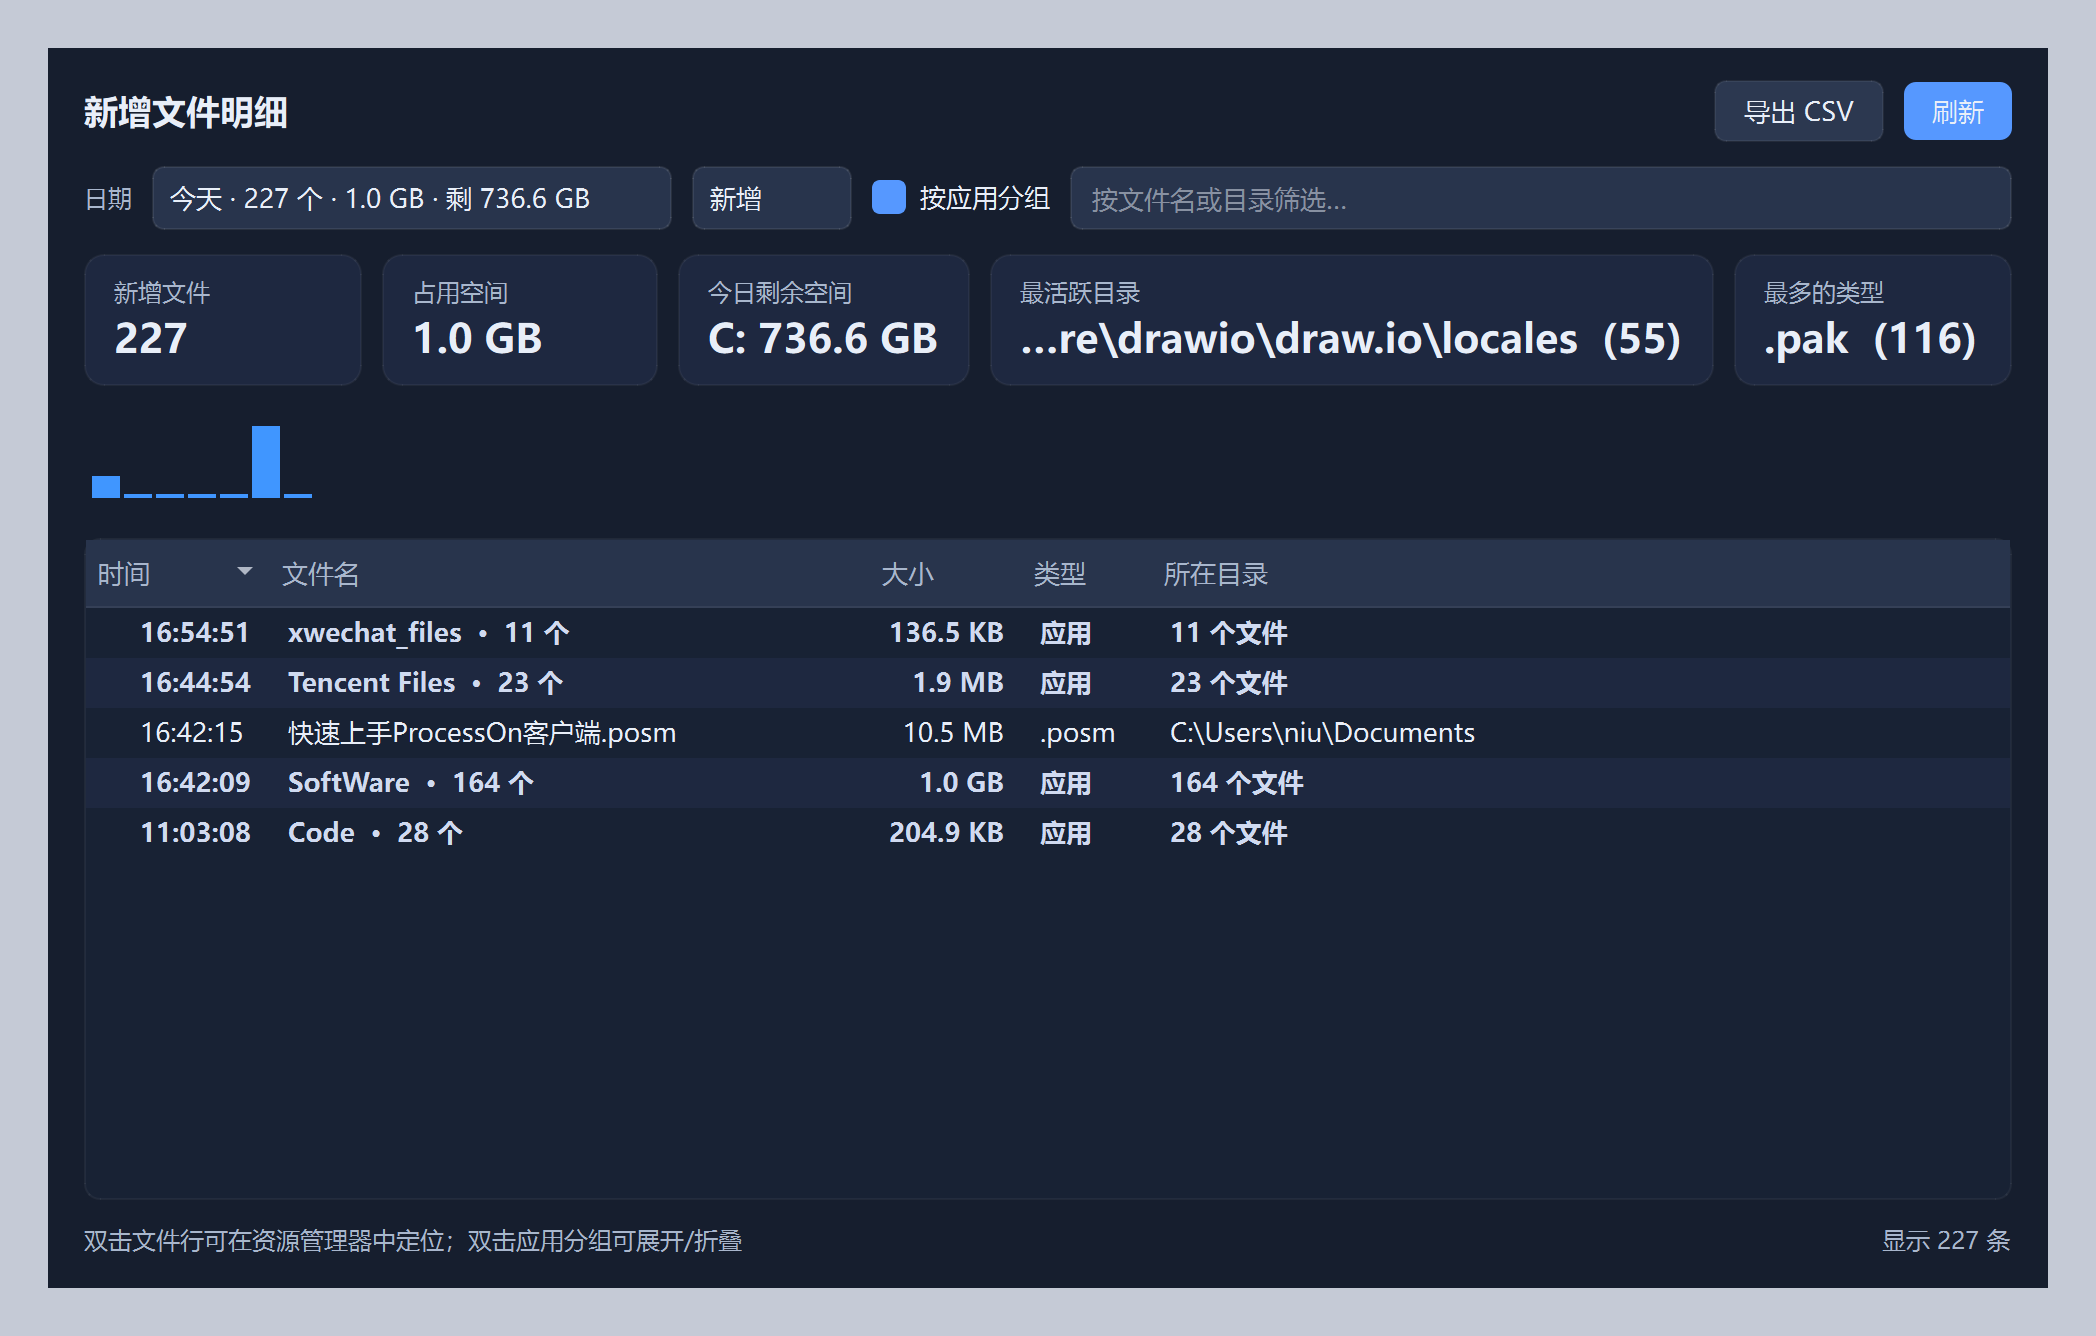
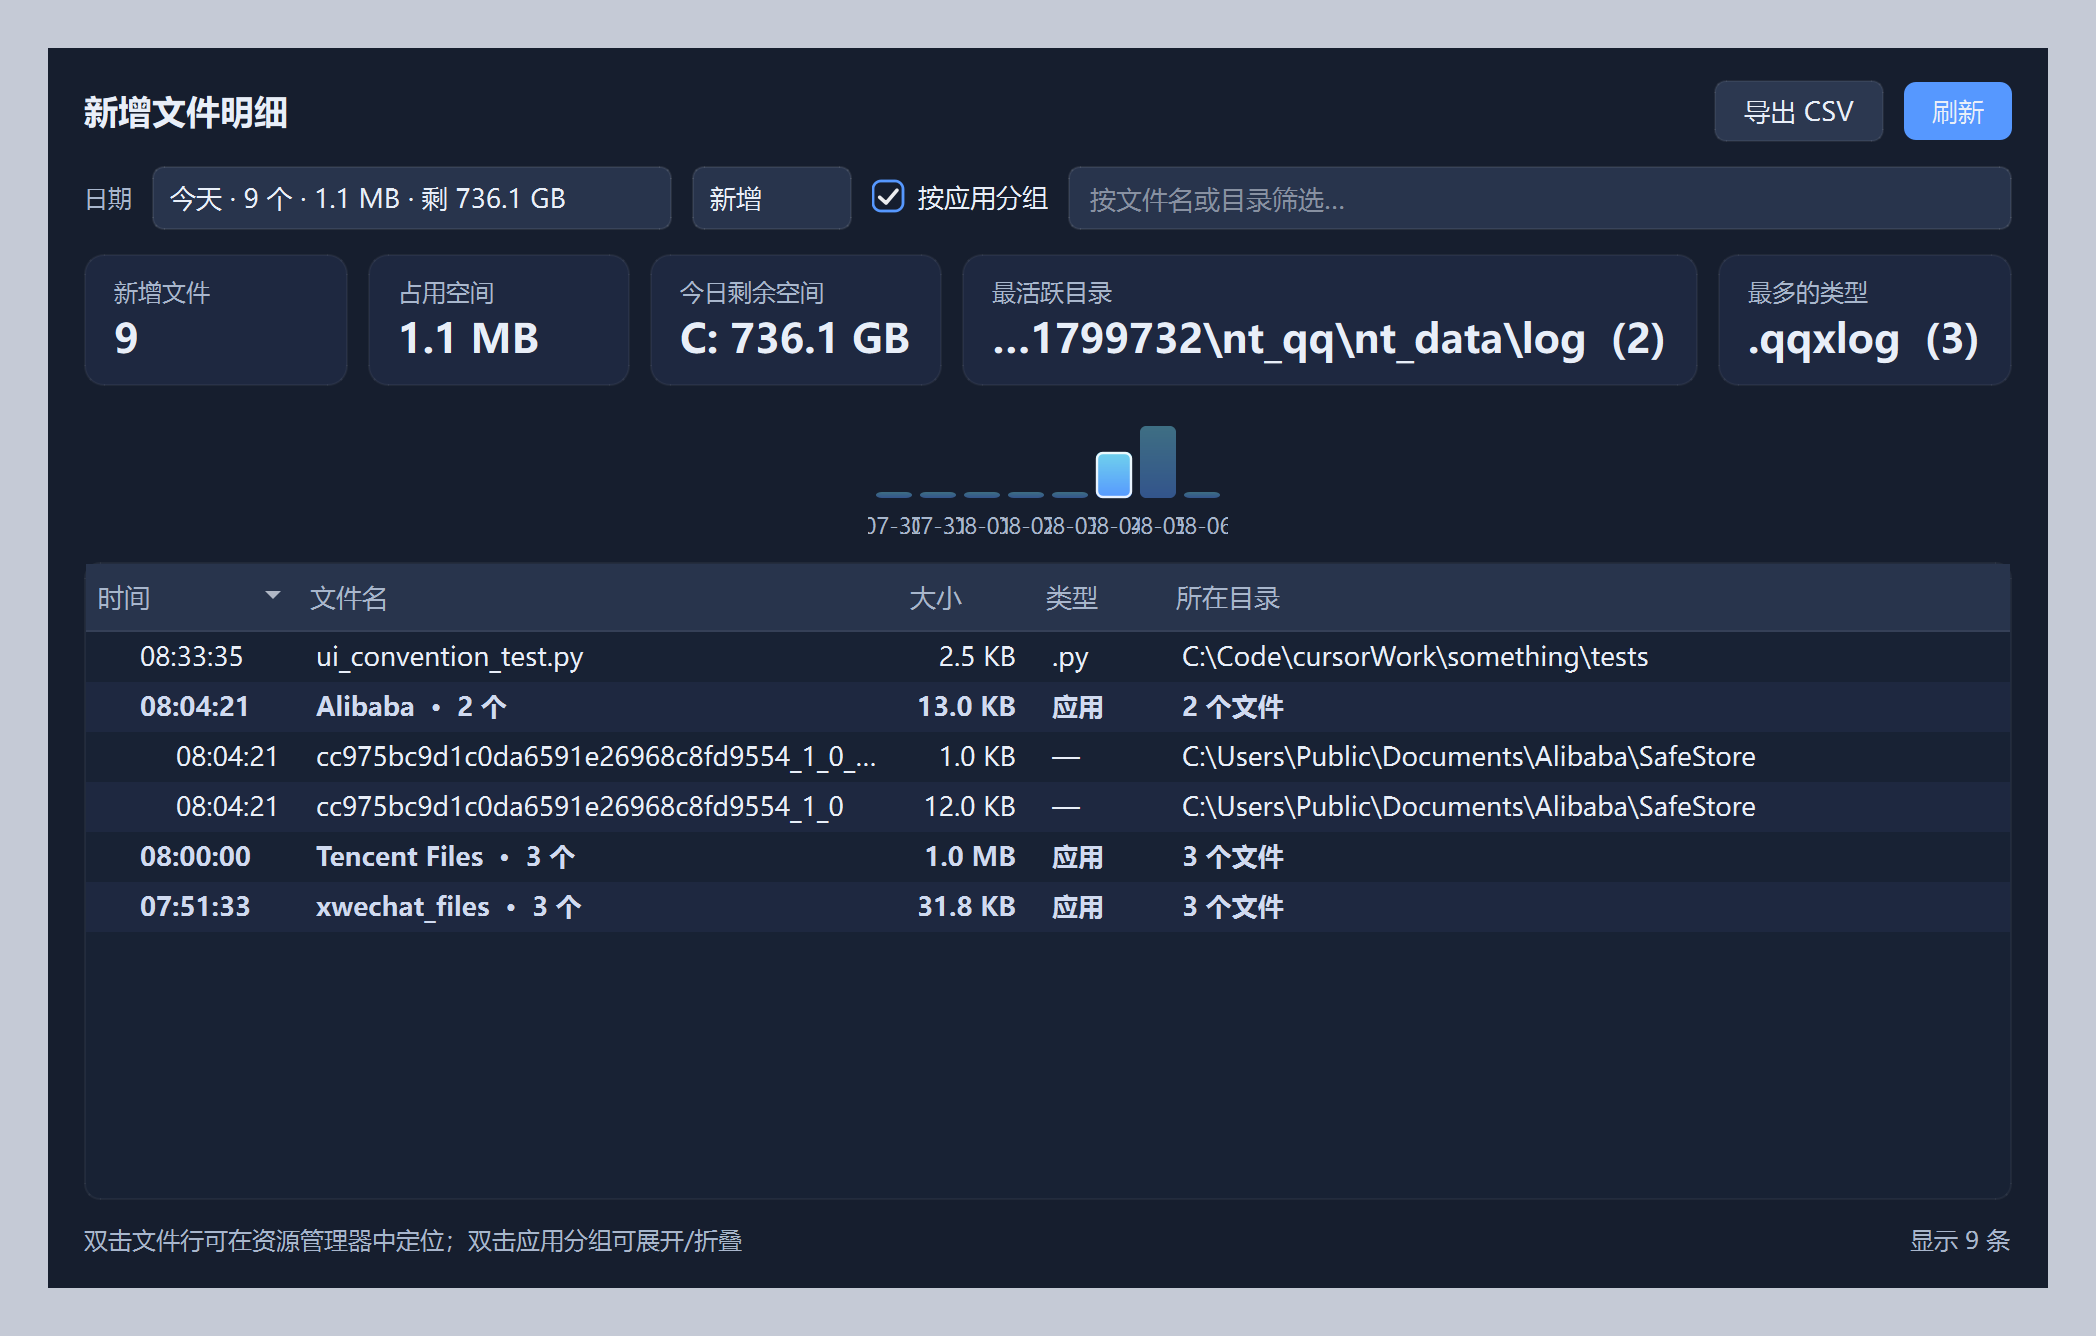
feat: trend chart shows added size with hover details, DeepSeek-style
趋势图重构：
- 主维度从「文件数量」改为「新增空间大小」（柱高按体积归一化）
- 渐变圆角柱（ACCENT_2→ACCENT 垂直渐变），参考 DeepSeek 平台用量组件
- 鼠标悬浮：当前柱高亮（白描边）、其余柱降透明度，
  浮层显示「日期 · 体积 · 文件数」（QToolTip）
- 底部 MM-DD 日期轴标签；零体积天不画柱、全零自动隐藏
- 新增 3 个测试（维度/浮层文本/hover 命中）
- 同步更新 panel 截图

diff --git a/diskwatch/ui/panel.py b/diskwatch/ui/panel.py
@@ -16,12 +16,12 @@ from PySide6.QtCore import (
     QEvent,
     QModelIndex,
     QPoint,
-    QRect,
+    QRectF,
     Qt,
     QTimer,
     Signal,
 )
-from PySide6.QtGui import QColor, QFont, QPainter
+from PySide6.QtGui import QColor, QFont, QLinearGradient, QPainter, QPen
 from PySide6.QtWidgets import (
     QAbstractItemView,
     QApplication,
@@ -38,6 +38,7 @@ from PySide6.QtWidgets import (
     QMessageBox,
     QPushButton,
     QSizePolicy,
+    QToolTip,
     QTreeView,
     QVBoxLayout,
     QWidget,
@@ -48,9 +49,12 @@ from ..i18n import tr
 from ..storage import FileRecord, Storage, human_size, today_str
 from ..watcher import open_in_explorer
 from .style import (
+    ACCENT,
+    ACCENT_2,
     DIM_FG,
     GROUP_FG,
     PANEL_QSS,
+    TEXT_DIM,
     apply_window_icon,
     enable_dark_titlebar,
 )
@@ -517,59 +521,142 @@ class StatCard(QFrame):
 
 
 TREND_DAYS = 14
-BAR_GAP = 2
-BAR_W = 14
-BAR_MAX_H = 36
-CHART_H = 52
+BAR_GAP = 4
+BAR_W = 18
+BAR_MAX_H = 40
+CHART_H = 64
+_PLOT_TOP = 8
+_LABEL_H = 14
 
 
 class TrendChart(QWidget):
-    """近 N 天新增趋势迷你柱状图。"""
+    """近 N 天新增体积趋势图：渐变圆角柱，悬浮显示日期 / 体积 / 数量。
+
+    数据来自 DaySummary（按天聚合），柱高按当天新增字节数归一化；
+    鼠标移入柱体时高亮并弹出浮层，展示该天完整明细。
+    """
 
     def __init__(self, parent=None):
         super().__init__(parent)
-        self._data: list[tuple[str, int]] = []
+        self._data: list[tuple[str, int, int]] = []  # (day, size, count)
+        self._hover: int = -1
         self.setMinimumHeight(CHART_H)
         self.setMaximumHeight(CHART_H)
-        self.setToolTip("")
+        self.setMouseTracking(True)
+
+    # ---------- 数据 ----------
 
     def set_days(self, summaries) -> None:
-        """接收 DaySummary 列表并绘制柱状图。"""
+        """接收 DaySummary 列表并绘制柱状图（按体积）。"""
         self._data = [
-            (s.day, s.count) for s in summaries[:TREND_DAYS] if s.count > 0
+            (s.day, s.total_size, s.count)
+            for s in summaries[:TREND_DAYS]
+            if s.total_size > 0
         ]
         self._data.reverse()  # 旧→新，左侧最早
+        self._hover = -1
         self.setVisible(bool(self._data))
-        if self._data:
-            self.setToolTip(
-                "\n".join(f"{d}: {c}" for d, c in self._data)
-            )
         self.update()
+
+    def _tip_text(self, i: int) -> str:
+        day, size, count = self._data[i]
+        return f"{day}  ·  {human_size(size)}  ·  {tr('{count} 个文件', count=count)}"
+
+    # ---------- 几何 ----------
+
+    def _geometry(self) -> tuple[int, int, int, int]:
+        """返回 (柱宽, 柱距, 起始 x, 柱区高)。"""
+        n = len(self._data)
+        w = self.width()
+        bar_area_h = self.height() - _PLOT_TOP - _LABEL_H - 6
+        if n == 0:
+            return 0, 0, 0, bar_area_h
+        gap = BAR_GAP
+        bw = BAR_W
+        total = n * bw + (n - 1) * gap
+        if total > w - 8:
+            bw = max(3.0, (w - 8 - (n - 1) * gap) / n)
+        x0 = (w - (n * bw + (n - 1) * gap)) / 2
+        return int(bw), gap, int(x0), bar_area_h
+
+    def _index_at(self, x: int) -> int:
+        bw, gap, x0, _ = self._geometry()
+        if bw <= 0:
+            return -1
+        for i in range(len(self._data)):
+            left = x0 + i * (bw + gap)
+            if left <= x <= left + bw:
+                return i
+        return -1
+
+    # ---------- 交互 ----------
+
+    def mouseMoveEvent(self, event) -> None:
+        i = self._index_at(int(event.position().x()))
+        if i != self._hover:
+            self._hover = i
+            self.update()
+        if i >= 0:
+            QToolTip.showText(
+                event.globalPosition().toPoint() + QPoint(14, -10),
+                self._tip_text(i),
+                self,
+                self.rect(),
+            )
+        else:
+            QToolTip.hideText()
+        super().mouseMoveEvent(event)
+
+    def leaveEvent(self, event) -> None:
+        if self._hover >= 0:
+            self._hover = -1
+            self.update()
+        super().leaveEvent(event)
+
+    # ---------- 绘制 ----------
 
     def paintEvent(self, event) -> None:
         if not self._data:
             return
         painter = QPainter(self)
         painter.setRenderHint(QPainter.Antialiasing)
-        w = self.width()
-        h = self.height()
-        n = len(self._data)
-        max_c = max(c for _, c in self._data) or 1
-        bar_total_width = BAR_W + BAR_GAP
-        chart_w = n * bar_total_width
-        if chart_w > w:
-            bar_total_width = max(3, w / n)
-            bw = max(2, bar_total_width - 2)
-        else:
-            bw = BAR_W
-        x0 = 4
+        bw, gap, x0, bar_area_h = self._geometry()
+        max_size = max(s for _, s, _ in self._data) or 1
+        hovered = self._hover >= 0
 
-        for i, (_day, count) in enumerate(self._data):
-            bh = max(2, int(count / max_c * BAR_MAX_H))
-            y = h - bh - 8
-            painter.fillRect(
-                QRect(int(x0 + i * bar_total_width), y, int(bw), bh),
-                QColor(64, 150, 255),
+        axis_font = painter.font()
+        axis_font.setPointSizeF(max(7.0, axis_font.pointSizeF() - 1.5))
+        axis_pen = QPen(QColor(TEXT_DIM))
+
+        for i, (day, size, _count) in enumerate(self._data):
+            x = x0 + i * (bw + gap)
+            bh = max(3, int(size / max_size * bar_area_h))
+            y = _PLOT_TOP + bar_area_h - bh
+
+            if hovered and i != self._hover:
+                painter.setOpacity(0.45)
+            else:
+                painter.setOpacity(1.0)
+            grad = QLinearGradient(x, y, x, y + bh)
+            grad.setColorAt(0.0, ACCENT_2)
+            grad.setColorAt(1.0, ACCENT)
+            painter.setBrush(grad)
+            painter.setPen(Qt.NoPen)
+            painter.drawRoundedRect(QRectF(x, y, bw, bh), 3, 3)
+
+            if i == self._hover:
+                painter.setOpacity(1.0)
+                painter.setBrush(Qt.NoBrush)
+                painter.setPen(QPen(QColor(255, 255, 255, 220), 1.2))
+                painter.drawRoundedRect(QRectF(x + 0.5, y + 0.5, bw - 1, bh - 1), 3, 3)
+
+            painter.setOpacity(1.0)
+            painter.setFont(axis_font)
+            painter.setPen(axis_pen)
+            painter.drawText(
+                QRectF(x - 4, self.height() - _LABEL_H + 2, bw + 8, _LABEL_H - 2),
+                Qt.AlignCenter,
+                day[5:],  # ISO 日期取 MM-DD 作轴标签
             )
         painter.end()
 

diff --git a/tests/panel_test.py b/tests/panel_test.py
@@ -12,12 +12,21 @@ from pathlib import Path
 
 from PySide6.QtCore import Qt
 
-from diskwatch.storage import Storage, make_record
-from diskwatch.ui.panel import FilesTreeModel
+from diskwatch.storage import DaySummary, Storage, human_size, make_record
+from diskwatch.ui.panel import FilesTreeModel, TrendChart
 
 
 def _rec(path: str, size: int, added_at: float) -> object:
     return make_record(str(Path(path)), size, added_at=added_at)
+
+
+def _days() -> list[DaySummary]:
+    return [
+        DaySummary("2026-08-01", 5, 1_000_000),
+        DaySummary("2026-08-02", 12, 8_500_000),
+        DaySummary("2026-08-03", 3, 250_000),
+        DaySummary("2026-08-04", 0, 0),  # 零体积天不画柱
+    ]
 
 
 def _model(records: list) -> FilesTreeModel:
@@ -189,3 +198,37 @@ def test_deleted_row_timestamp_display() -> None:
 
     assert pmod._file_display(rec_normal, 0, Qt.DisplayRole) != time_str
     assert pmod._file_display(rec_deleted, 0, Qt.DisplayRole) == time_str
+
+
+def test_trend_chart_data_dimension() -> None:
+    """趋势图以体积为主维度，零体积天不画柱，旧→新排序。"""
+    c = TrendChart()
+    c.set_days(_days())
+    assert c.isVisible()
+    assert len(c._data) == 3, c._data  # 08-04 体积为 0 被过滤
+    assert c._data[0][0] == "2026-08-03", c._data  # 最新在左
+    assert c._data[-1][0] == "2026-08-01"
+    assert c._data[0][1] == 250_000  # size 为主维度
+    c.set_days([DaySummary("2026-08-05", 0, 0)])
+    assert not c.isVisible()  # 全零 → 隐藏
+
+
+def test_trend_chart_tip_text() -> None:
+    c = TrendChart()
+    c.set_days(_days())
+    tip = c._tip_text(1)  # 08-02, 8_500_000 B, 12 个
+    assert "2026-08-02" in tip
+    assert human_size(8_500_000) in tip
+    assert "12" in tip
+
+
+def test_trend_chart_hover_hit() -> None:
+    c = TrendChart()
+    c.set_days(_days())
+    c.resize(300, 64)
+    bw, gap, x0, _ = c._geometry()
+    assert c._index_at(x0 + bw // 2) == 0
+    assert c._index_at(x0 + bw + gap // 2) == -1  # 间隙不命中
+    assert c._index_at(x0 + 2 * (bw + gap) + bw // 2) == 2
+    assert c._index_at(-5) == -1
+    assert c._index_at(9999) == -1
